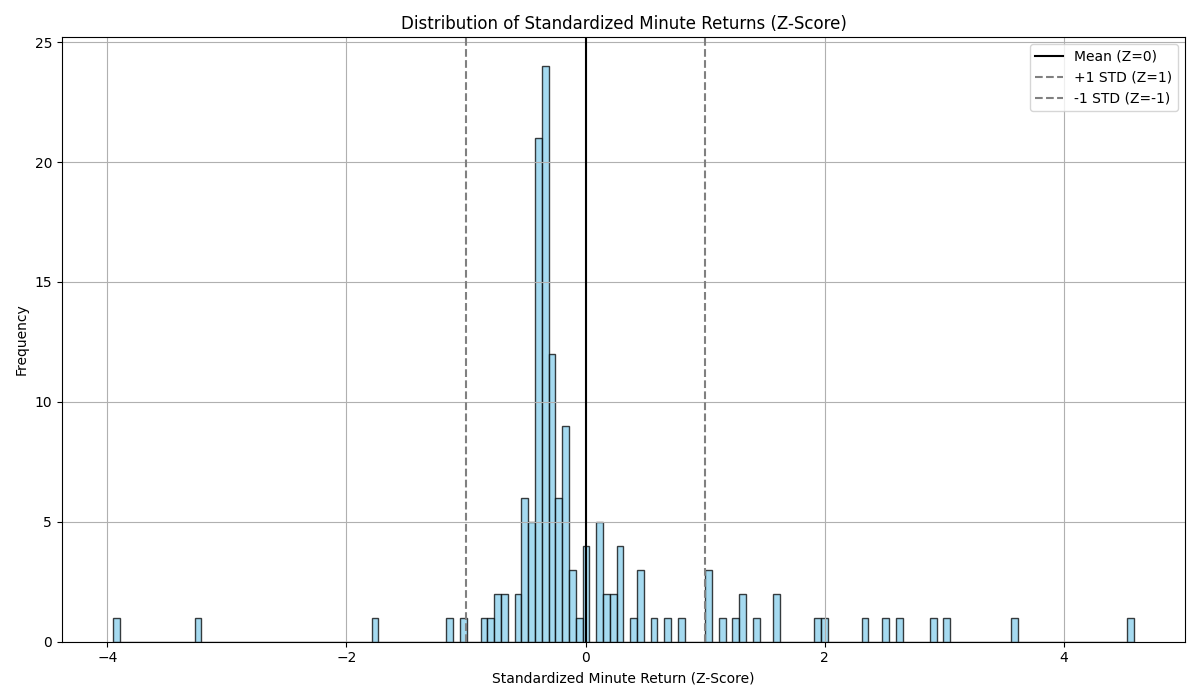
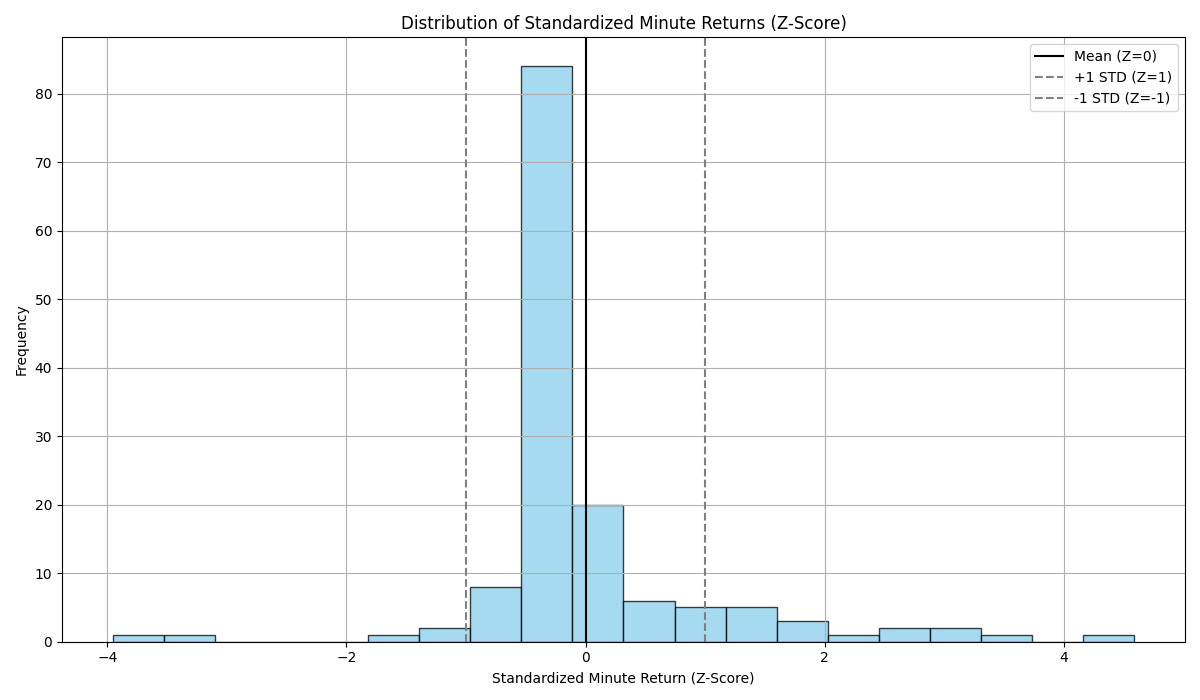
minor changes

diff --git a/helper.py b/helper.py
@@ -131,7 +131,7 @@ def plot_standardized_minute_returns_distribution(nav_over_time):
 
     # Plot the improved histogram
     plt.figure(figsize=(12, 7))
-    plt.hist(z_returns_filtered, bins=150, color='skyblue', edgecolor='black', alpha=0.75)
+    plt.hist(z_returns_filtered, bins=20, color='skyblue', edgecolor='black', alpha=0.75)
 
     plt.axvline(0, color='black', linestyle='-', linewidth=1.5, label='Mean (Z=0)')
     plt.axvline(1, color='gray', linestyle='--', label='+1 STD (Z=1)')
